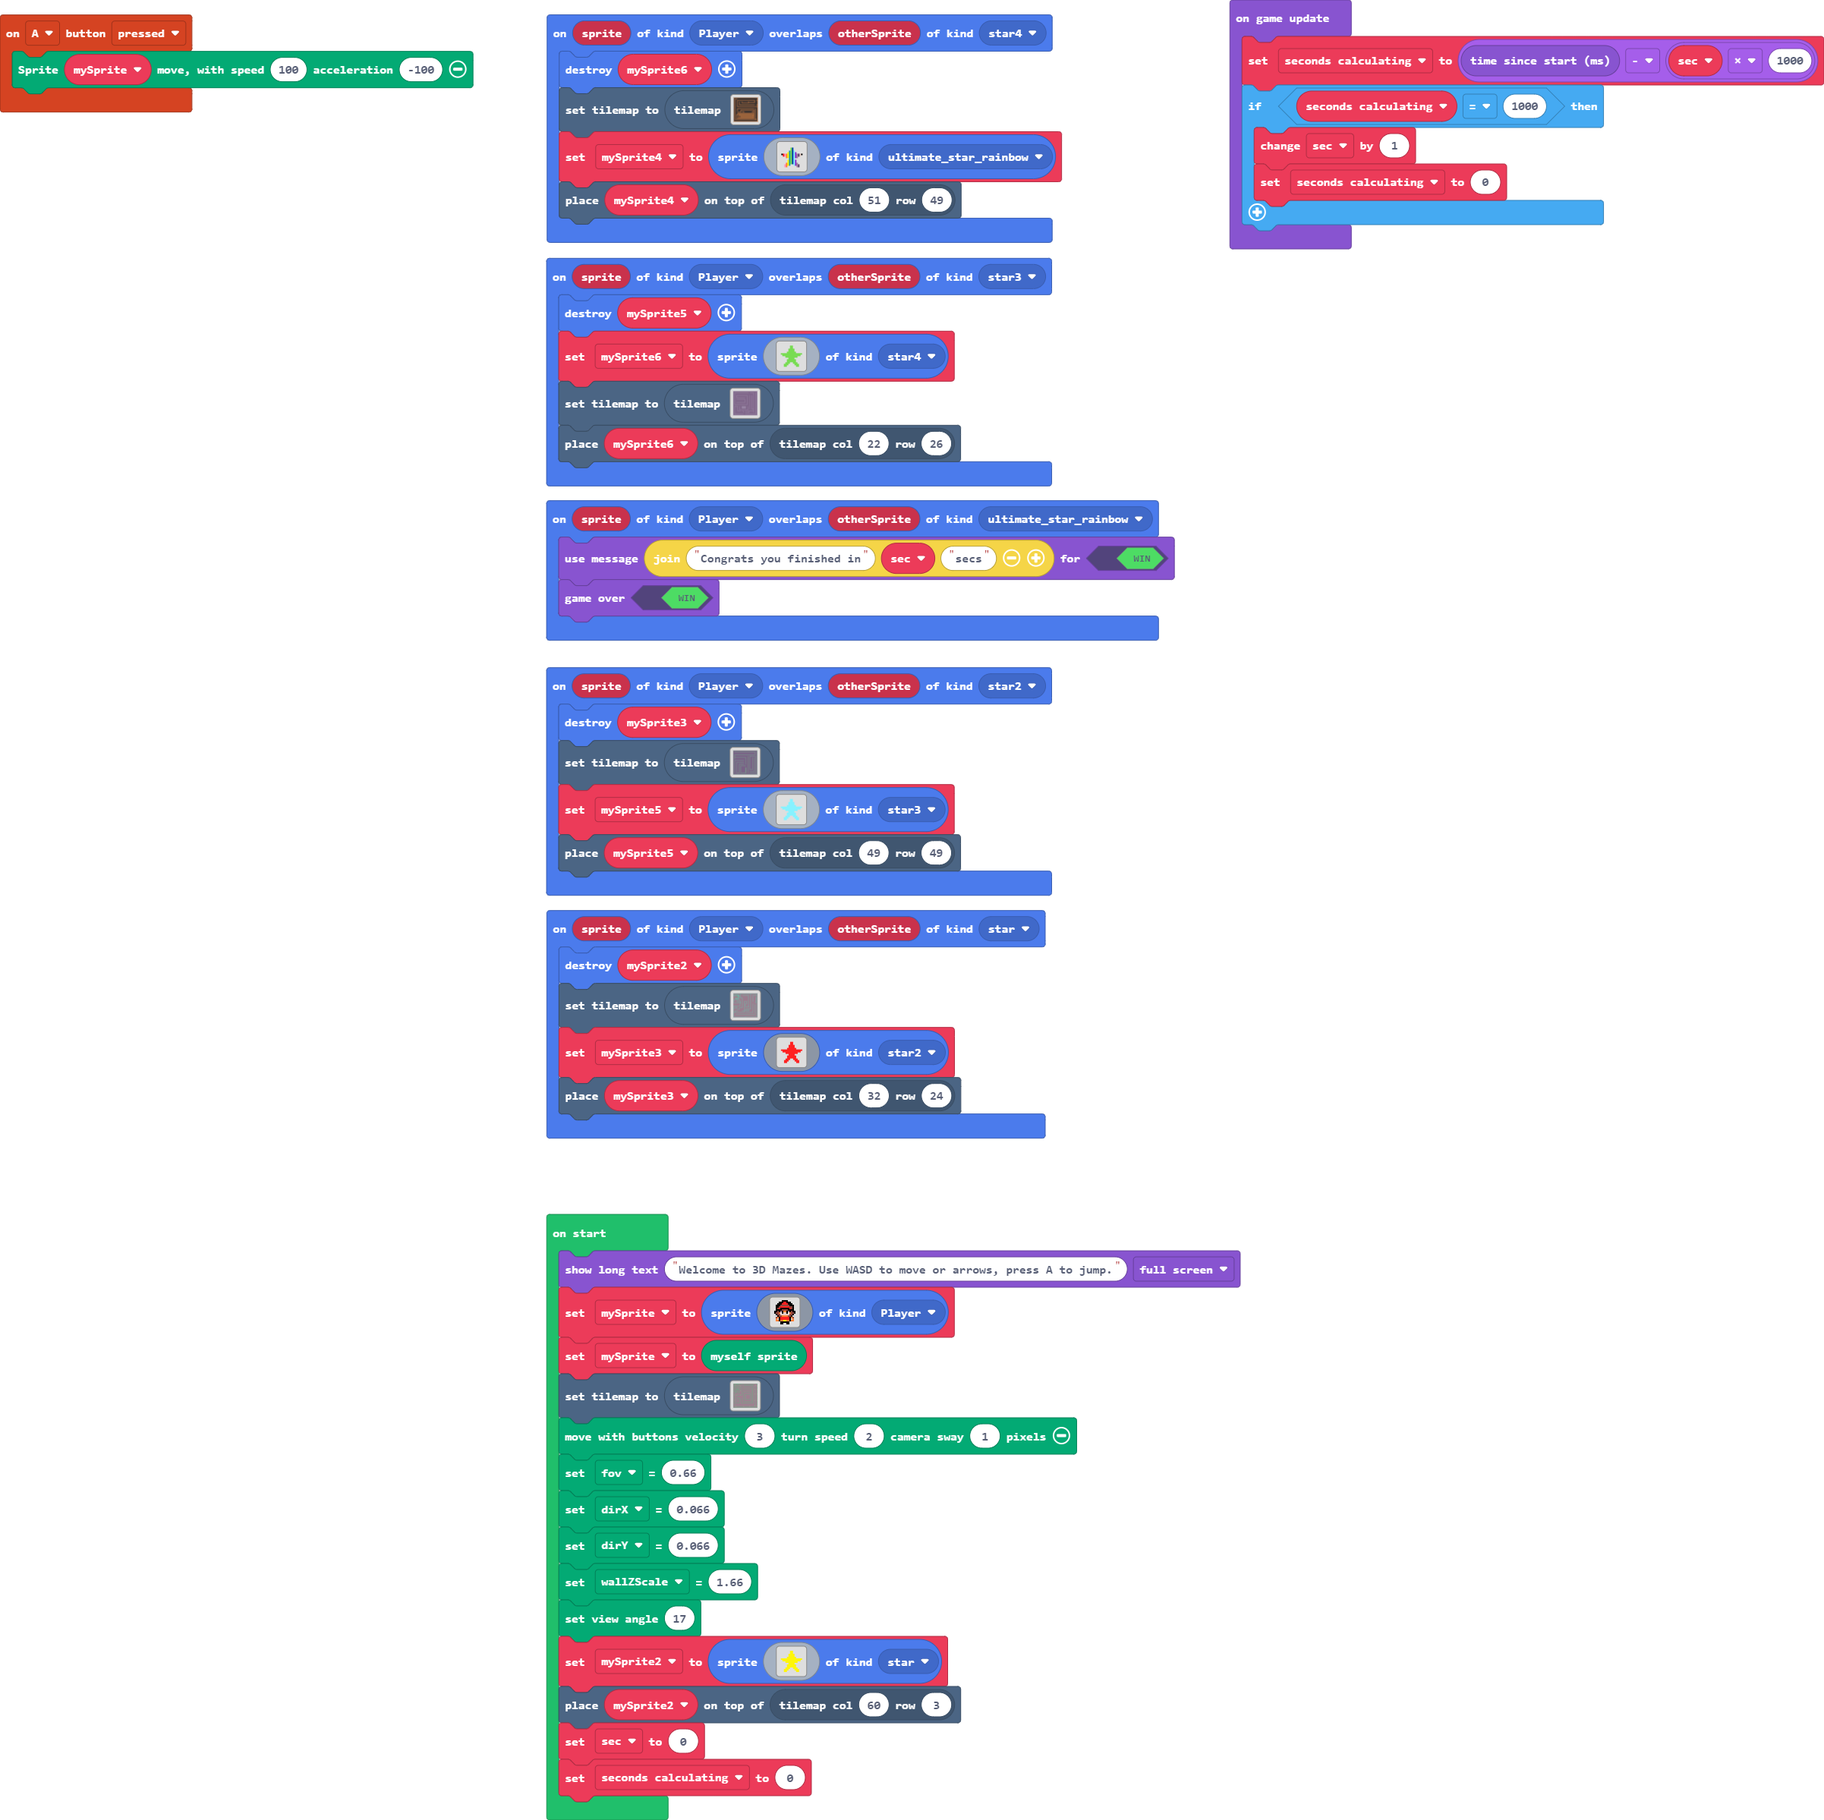
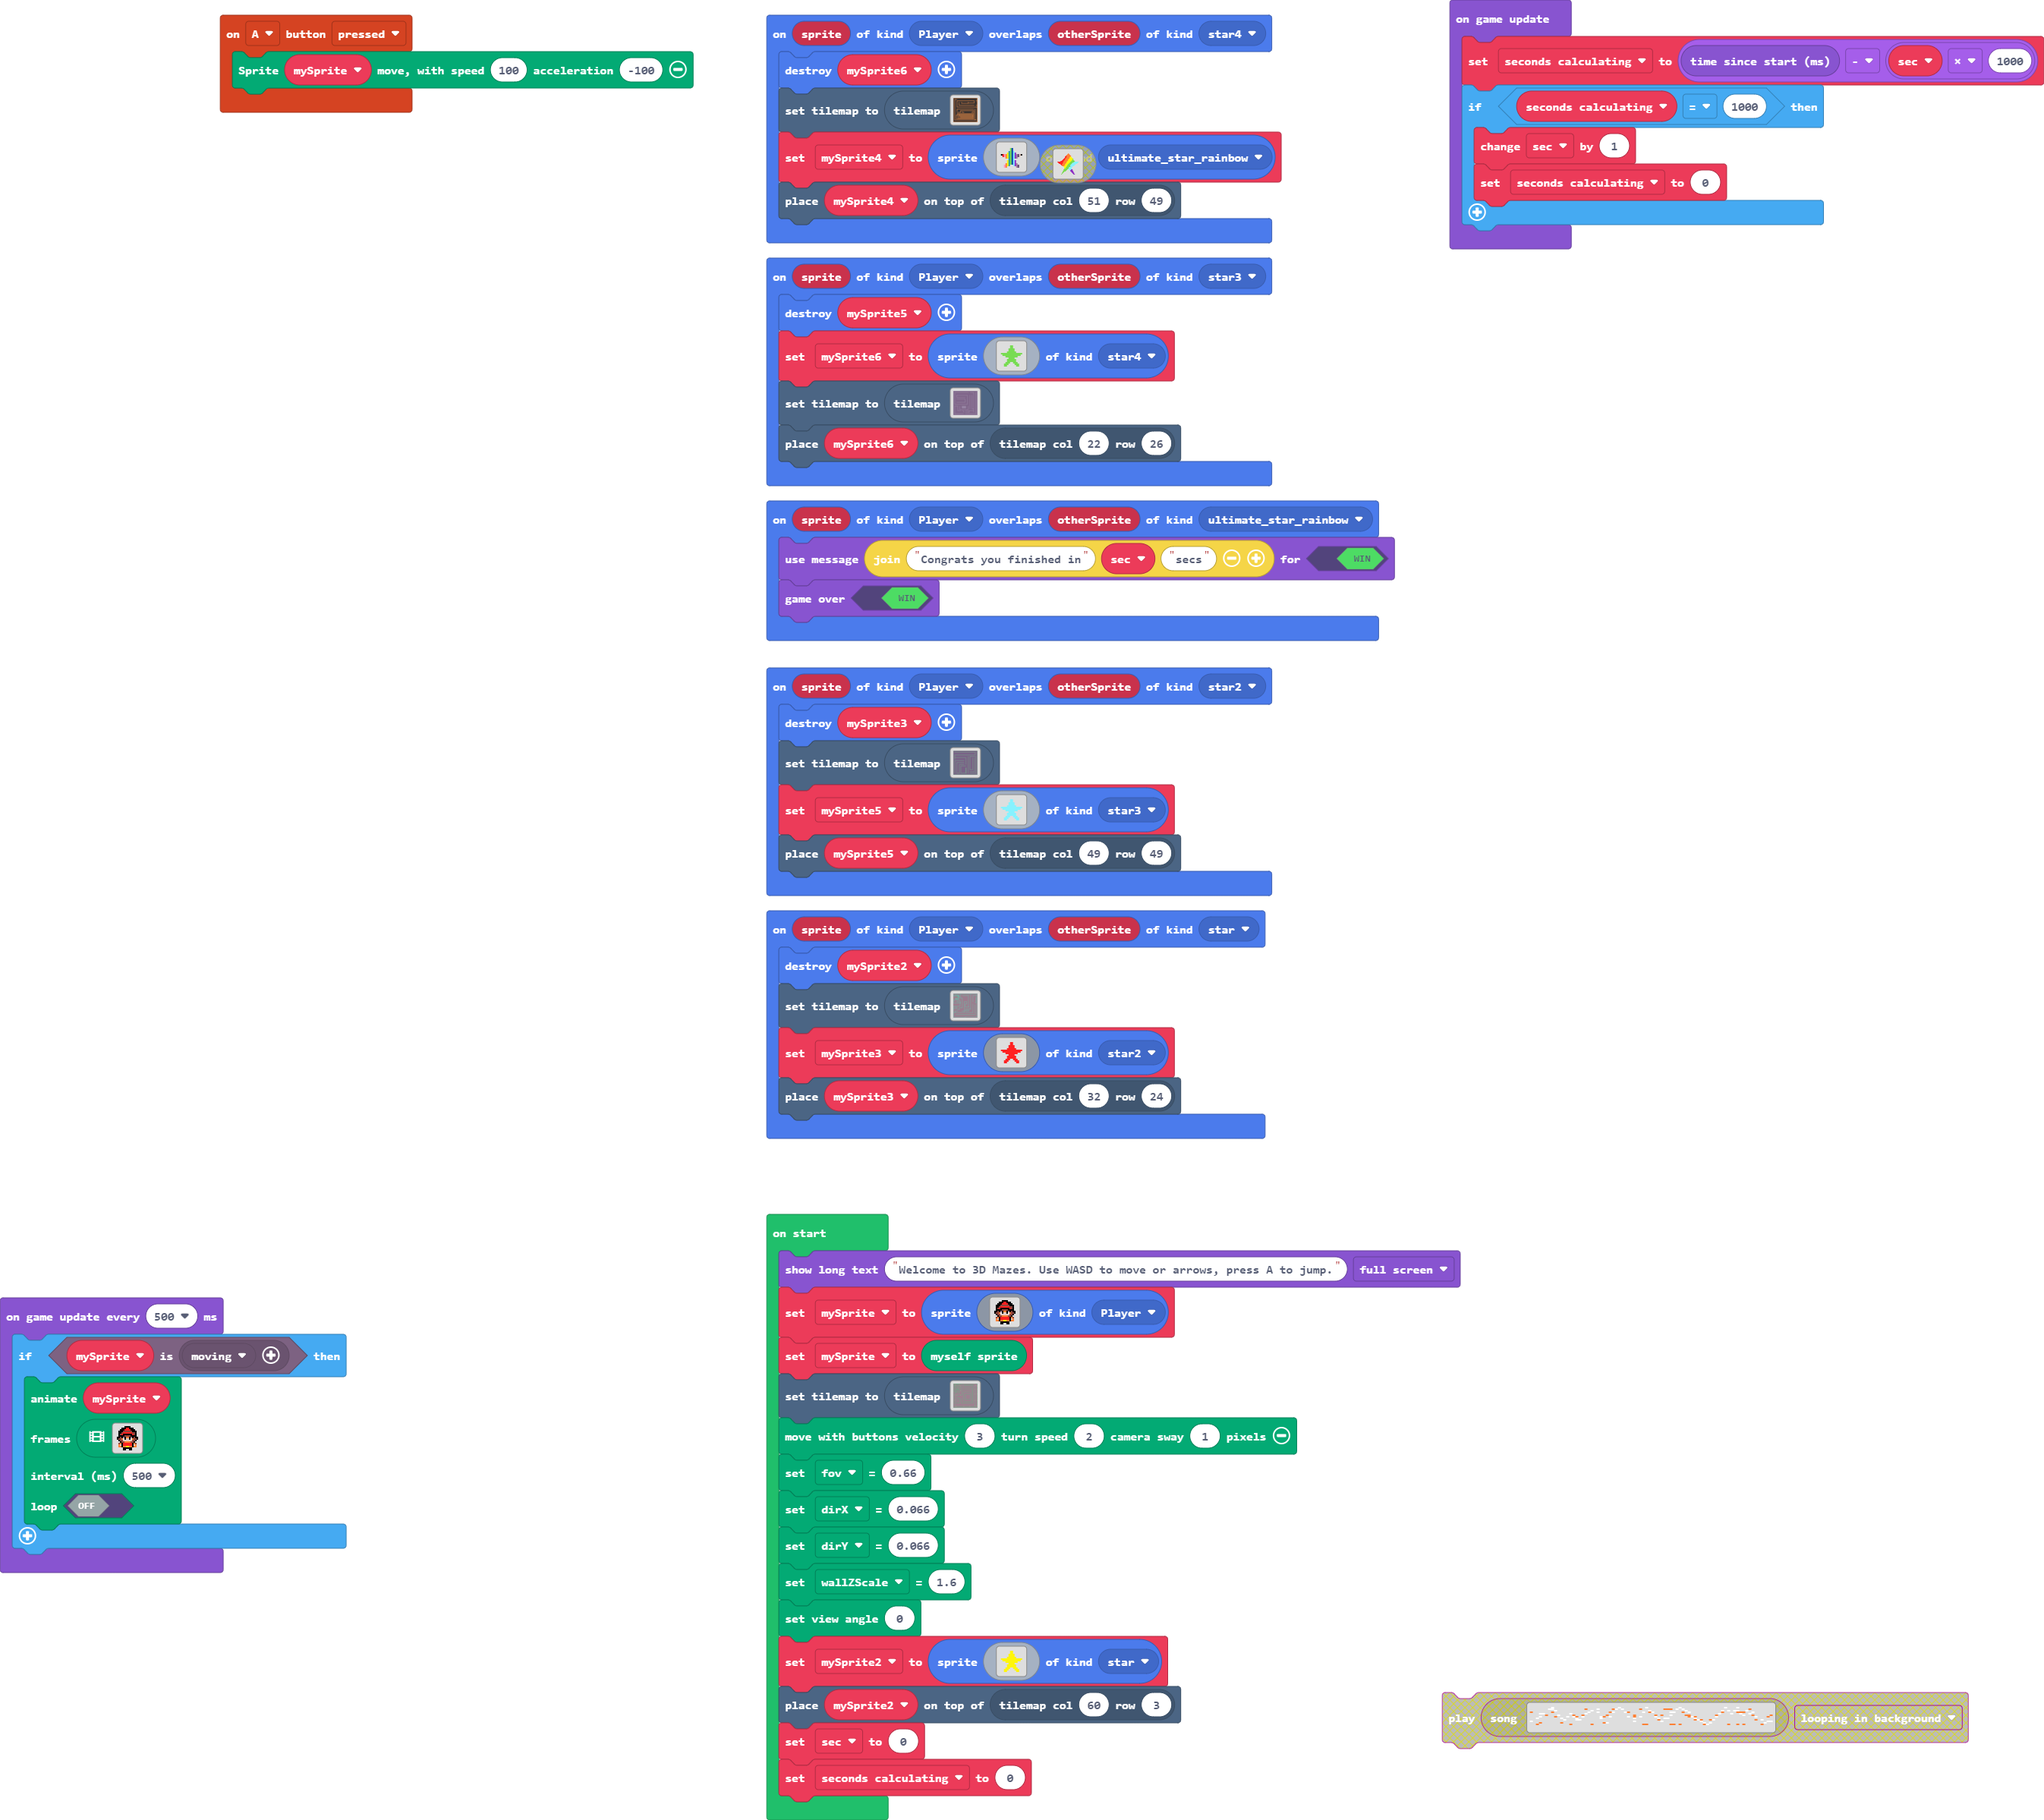
Update pxt.json, main.blocks, main.ts

diff --git a/main.ts b/main.ts
@@ -136,8 +136,8 @@ Render.moveWithController(3, 2, 1)
 Render.setAttribute(Render.attribute.fov, 0.66)
 Render.setAttribute(Render.attribute.dirX, 0.066)
 Render.setAttribute(Render.attribute.dirY, 0.066)
-Render.setAttribute(Render.attribute.wallZScale, 1.66)
-Render.setViewAngleInDegree(17)
+Render.setAttribute(Render.attribute.wallZScale, 1.6)
+Render.setViewAngleInDegree(0)
 mySprite2 = sprites.create(img`
     . . . . . . . . . . . . . . . . 
     . . . . . . . 5 5 . . . . . . . 
@@ -164,5 +164,83 @@ game.onUpdate(function () {
     if (seconds_calculating == 1000) {
         sec += 1
         seconds_calculating = 0
+    }
+})
+game.onUpdateInterval(500, function () {
+    if (characterAnimations.matchesRule(mySprite, characterAnimations.rule(Predicate.Moving))) {
+        animation.runImageAnimation(
+        mySprite,
+        [img`
+            . . . . . . f f f f . . . . . . 
+            . . . . f f f 2 2 f f f . . . . 
+            . . . f f f 2 2 2 2 f f f . . . 
+            . . f f f e e e e e e f f f . . 
+            . . f f e 2 2 2 2 2 2 e e f . . 
+            . . f e 2 f f f f f f 2 e f . . 
+            . . f f f f e e e e f f f f . . 
+            . f f e f b f 4 4 f b f e f f . 
+            . f e e 4 1 f d d f 1 4 e e f . 
+            . . f e e d d d d d d e e f . . 
+            . . . f e e 4 4 4 4 e e f . . . 
+            . . e 4 f 2 2 2 2 2 2 f 4 e . . 
+            . . 4 d f 2 2 2 2 2 2 f d 4 . . 
+            . . 4 4 f 4 4 5 5 4 4 f 4 4 . . 
+            . . . . . f f f f f f . . . . . 
+            . . . . . f f . . f f . . . . . 
+            `,img`
+            . . . . . . . . . . . . . . . . 
+            . . . . . . f f f f . . . . . . 
+            . . . . f f f 2 2 f f f . . . . 
+            . . . f f f 2 2 2 2 f f f . . . 
+            . . f f f e e e e e e f f f . . 
+            . . f f e 2 2 2 2 2 2 e e f . . 
+            . f f e 2 f f f f f f 2 e f f . 
+            . f f f f f e e e e f f f f f . 
+            . . f e f b f 4 4 f b f e f . . 
+            . . f e 4 1 f d d f 1 4 e f . . 
+            . . . f e 4 d d d d 4 e f e . . 
+            . . f e f 2 2 2 2 e d d 4 e . . 
+            . . e 4 f 2 2 2 2 e d d e . . . 
+            . . . . f 4 4 5 5 f e e . . . . 
+            . . . . f f f f f f f . . . . . 
+            . . . . f f f . . . . . . . . . 
+            `,img`
+            . . . . . . f f f f . . . . . . 
+            . . . . f f f 2 2 f f f . . . . 
+            . . . f f f 2 2 2 2 f f f . . . 
+            . . f f f e e e e e e f f f . . 
+            . . f f e 2 2 2 2 2 2 e e f . . 
+            . . f e 2 f f f f f f 2 e f . . 
+            . . f f f f e e e e f f f f . . 
+            . f f e f b f 4 4 f b f e f f . 
+            . f e e 4 1 f d d f 1 4 e e f . 
+            . . f e e d d d d d d e e f . . 
+            . . . f e e 4 4 4 4 e e f . . . 
+            . . e 4 f 2 2 2 2 2 2 f 4 e . . 
+            . . 4 d f 2 2 2 2 2 2 f d 4 . . 
+            . . 4 4 f 4 4 5 5 4 4 f 4 4 . . 
+            . . . . . f f f f f f . . . . . 
+            . . . . . f f . . f f . . . . . 
+            `,img`
+            . . . . . . . . . . . . . . . . 
+            . . . . . . f f f f . . . . . . 
+            . . . . f f f 2 2 f f f . . . . 
+            . . . f f f 2 2 2 2 f f f . . . 
+            . . f f f e e e e e e f f f . . 
+            . . f e e 2 2 2 2 2 2 e f f . . 
+            . f f e 2 f f f f f f 2 e f f . 
+            . f f f f f e e e e f f f f f . 
+            . . f e f b f 4 4 f b f e f . . 
+            . . f e 4 1 f d d f 1 4 e f . . 
+            . . e f e 4 d d d d 4 e f . . . 
+            . . e 4 d d e 2 2 2 2 f e f . . 
+            . . . e d d e 2 2 2 2 f 4 e . . 
+            . . . . e e f 5 5 4 4 f . . . . 
+            . . . . . f f f f f f f . . . . 
+            . . . . . . . . . f f f . . . . 
+            `],
+        500,
+        false
+        )
     }
 })
